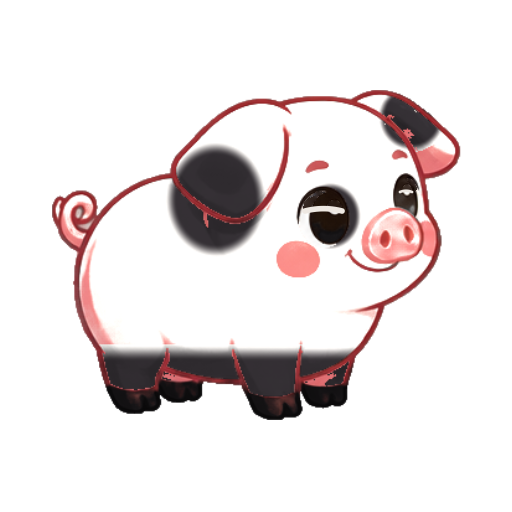
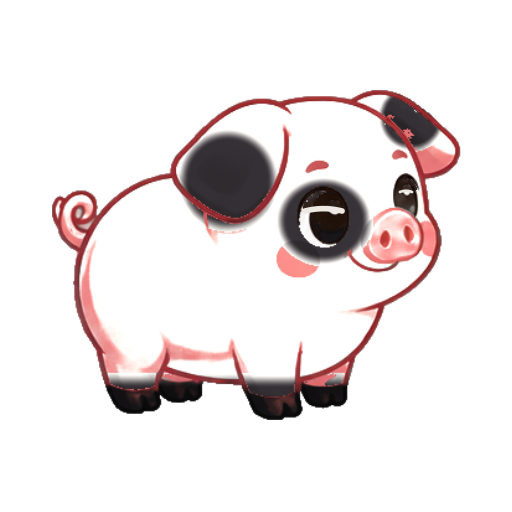
fix(PG): panda eye patches, drop duplicate pig_alien_v4, balance music and level_up volume

Changed region(s): [[0.3125, 0.25, 0.75, 0.5312], [0.1875, 0.6562, 0.6875, 0.75]]

diff --git a/scripts/assets/coats.ts b/scripts/assets/coats.ts
@@ -123,10 +123,12 @@ export const COATS: Record<string, (c: CoatCtx) => void> = {
       const black = shade([46, 42, 46], ref, 1.1);
       const white = shade([250, 248, 244], ref, 1.22);
       const k = Math.max(
-        blob(u, v, 0.68, 0.38, 0.075, 0.1), // near eye
-        blob(u, v, 0.4, 0.33, 0.12, 0.17), // near ear flap
+        // Patch around the near eye, wider than the eye and dropping toward the cheek (the old
+        // eye-sized spot only darkened the iris, so no patch showed).
+        blob(u, v, 0.665, 0.395, 0.115, 0.13),
+        blob(u, v, 0.43, 0.27, 0.12, 0.15), // near ear flap
         blob(u, v, 0.88, 0.08, 0.08, 0.1), // far ear
-        sm(0.76, 0.82, v), // legs
+        sm(0.85, 0.9, v), // legs, below the belly line
       );
       return { color: mix(white, black, k), t: 1, skin: k > 0.05 }; // snout, blush stay pink
     }),

diff --git a/DECISIONS.md b/DECISIONS.md
@@ -283,3 +283,6 @@ Phase: PG.
 
 **PG-4** · **Chơi lại từ đầu.** Cài đặt → 2 lần xác nhận → `store.resetGame()`: ghi save hiện tại, rồi `backups.backupBeforeReset()` (desktop: 1 bản trong `backups/` khôi phục được + 1 bản vĩnh viễn `saves/before-reset-<stamp>.json` ngoài vòng xoay 10 bản), lỗi sao lưu → huỷ, giữ nguyên nông trại. IPC mới `unin:save:backupBeforeReset`. Bản trình duyệt (dev) không có sao lưu: reset luôn.
 Phase: PG.
+
+**PG-5** · Dọn art. `pig_panda`: quầng mắt cũ chỉ to bằng con mắt (tô đen tròng, không thành quầng) → blob rộng hơn quanh mắt, mảng đen dời lên vạt tai, dải chân chỉ dưới đường bụng (`coats.ts`), cắt lại + `art:sleep`. Xoá `pig_alien_v4` (trùng byte `pig_alien_v3`). Âm lượng: không có ffmpeg → đo RMS bằng WebAudio trong bản dev (nhạc −15,4 dB, SFX −16…−18 dB, `level_up` −9,6 dB) và chỉnh `volume` manifest thay vì mã hoá lại: `music_farm` 0,6 → 0,35 (≈7 dB dưới SFX), `level_up` 0,8 → 0,45. `pig_ai`, `pig_space` (ảnh nguồn chưa nhập game) vẫn cần vẽ lại bằng model ảnh — không làm được trong session.
+Phase: PG.
